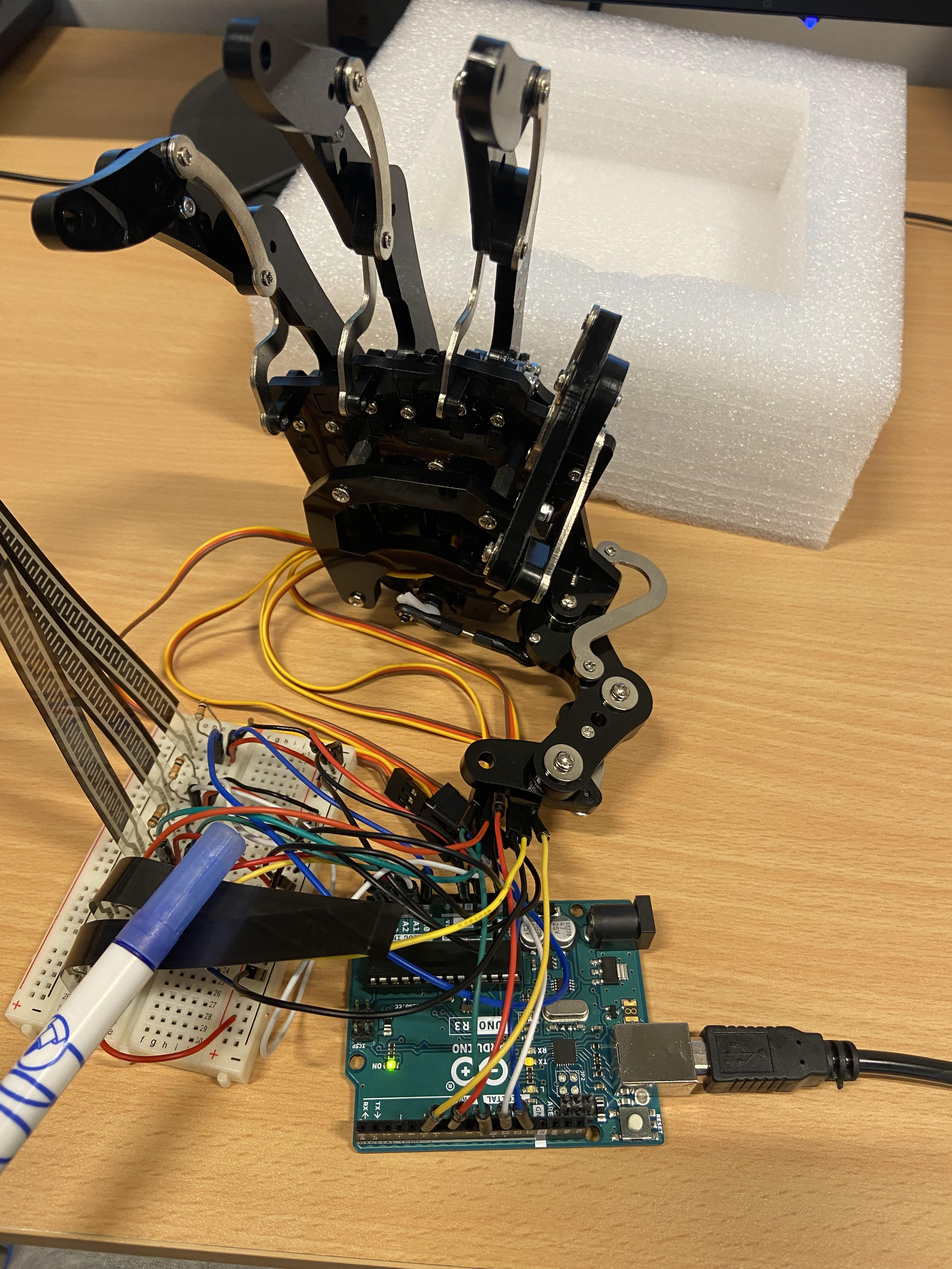
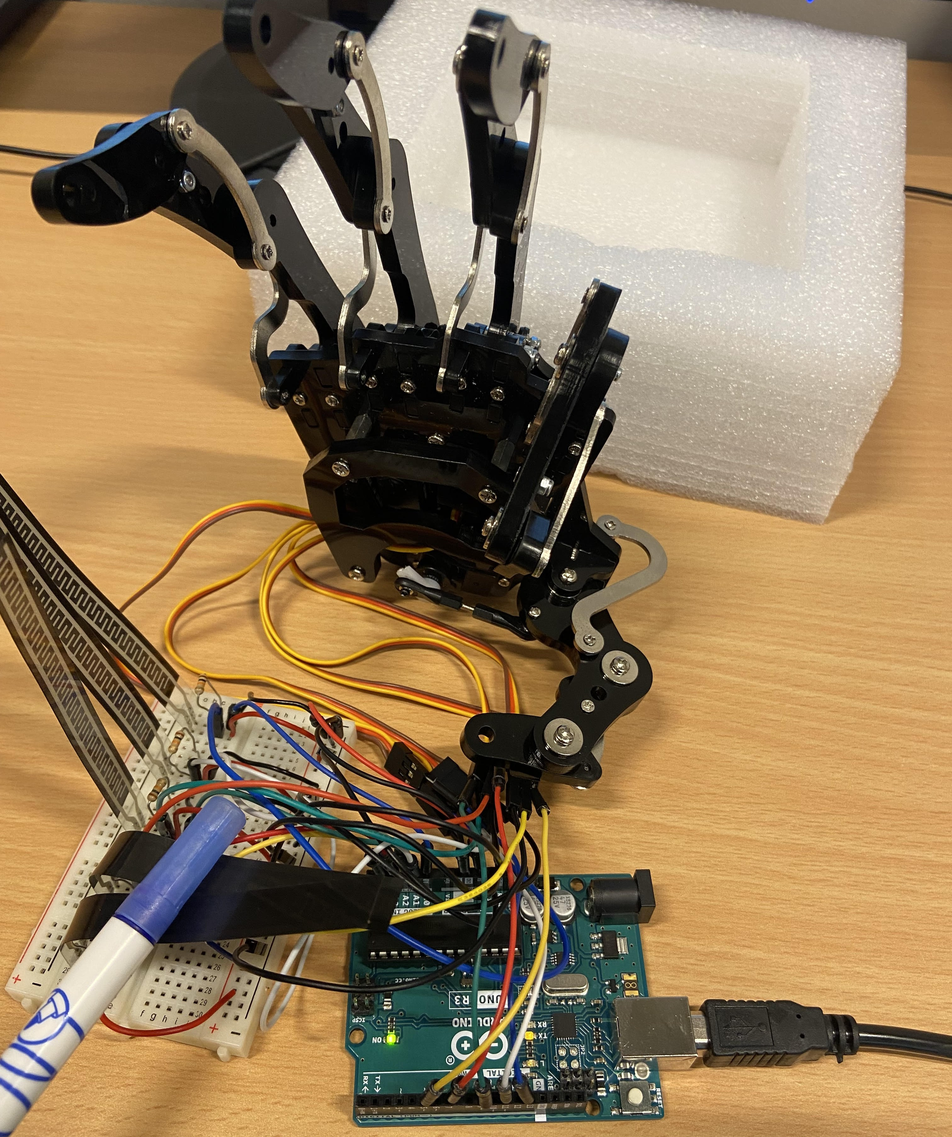
correction taille image

diff --git a/fr.html b/fr.html
@@ -56,9 +56,15 @@
         <img src="docs/images/projet_robot.jpg" alt="Capture d'écran Projet Embarqué" width="370" height="208">
         <h3>Main robotique contrôlée par capteurs de flexion (Arduino)</h3>
         <p>Réalisation d’un système embarqué permettant de contrôler une main robotique à l’aide de capteurs de flexion.
-          Chaque capteur, placé sur un doigt de la main, est relié à une carte Arduino via une platine d’essai.
-          La flexion d’un doigt est lue en entrée analogique et traduite en mouvement du doigt correspondant sur la main robotique.</p>
+          Chaque capteur est relié à une carte Arduino. La flexion d’un doigt est lue en entrée analogique et traduite en mouvement du doigt correspondant.</p>
         <a href="/docs/projet/mainRobotique.pdf" download class="project-link-button">📄 Cliquer pour voir la présentation du projet</a>
+      </div>
+      <div class="project">
+        <img src="docs/images/java_game.png" alt="Capture d'écran Jeu Java" width="370" height="208">
+        <h3>Jeu 2D (JavaFX)</h3>
+        <p>Ce projet consistait à développer un jeu 2D intégrant un système d’animations, la détection des collisions, un inventaire interactif 
+          et une gestion centralisée des événements. L’ensemble reposait sur une architecture MVC afin de garantir une organisation claire du code.</p>        
+        <a href="https://github.com/dj3n3b44/Project_2DGame" target="_blank" class="project-link-button">💻 Cliquer pour voir le code</a>
       </div>
       <div class="project">
         <img src="docs/images/sql_project.png" alt="Capture d'écran Projet SQL" width="370" height="208">
@@ -67,13 +73,6 @@
           Il incluait la réalisation des modèles conceptuel et logique, ainsi que la création du schéma relationnel. 
           L’objectif était d’aboutir à une structure optimisée capable de supporter des requêtes SQL avancées et adaptées aux contraintes du projet.</p>        
         <a href="/docs/projet/projet_vente_velo.zip" download class="project-link-button">📦 Télécharger le projet (ZIP)</a>
-      </div>
-      <div class="project">
-        <img src="docs/images/java_game.png" alt="Capture d'écran Jeu Java" width="370" height="208">
-        <h3>Jeu 2D (JavaFX)</h3>
-        <p>Ce projet consistait à développer un jeu 2D intégrant un système d’animations, la détection des collisions, un inventaire interactif 
-          et une gestion centralisée des événements. L’ensemble reposait sur une architecture MVC afin de garantir une organisation claire du code.</p>        
-        <a href="https://github.com/dj3n3b44/Project_2DGame" target="_blank" class="project-link-button">💻 Cliquer pour voir le code</a>
       </div>
       <div class="project">
         <img src="docs/images/web_project.png" alt="Site Web HTML CSS JS" width="370" height="208">

diff --git a/en.html b/en.html
@@ -61,16 +61,16 @@
         <a href="/docs/projet/mainRobotique.pdf" download class="project-link-button">📄 Click to view the project presentation</a>
       </div>
       <div class="project">
-        <img src="docs/images/sql_project.png" alt="SQL Project Screenshot" width="370" height="208">
-        <h3>Database (MySQL)</h3>
-        <p>This project involved analyzing the needs of an information system and then designing a complete database. It included creating the conceptual and logical models, as well as the relational schema. The objective was to achieve an optimized structure capable of supporting advanced SQL queries adapted to the project's constraints.</p> 	 	
-        <a href="/docs/zip_projet/projet_vente_velo.zip" download class="project-link-button">📦 Download Project (ZIP)</a>
-      </div>
-      <div class="project">
         <img src="docs/images/java_game.png" alt="Java Game Screenshot" width="370" height="208">
         <h3>2D Game (JavaFX)</h3>
         <p>This project consisted of developing a 2D game integrating an animation system, collision detection, an interactive inventory, and centralized event management. The entire system was based on an MVC architecture to ensure clear code organization.</p> 	 	
         <a href="https://github.com/dj3n3b44/Project_2DGame" target="_blank" class="project-link-button">💻 Click to view code</a>
+      </div>
+      <div class="project">
+        <img src="docs/images/sql_project.png" alt="SQL Project Screenshot" width="370" height="208">
+        <h3>Database (MySQL)</h3>
+        <p>This project involved analyzing the needs of an information system and then designing a complete database. It included creating the conceptual and logical models, as well as the relational schema. The objective was to achieve an optimized structure capable of supporting advanced SQL queries adapted to the project's constraints.</p> 	 	
+        <a href="/docs/zip_projet/projet_vente_velo.zip" download class="project-link-button">📦 Download Project (ZIP)</a>
       </div>
       <div class="project">
         <img src="docs/images/web_project.png" alt="HTML CSS JS Website" width="370" height="208">
